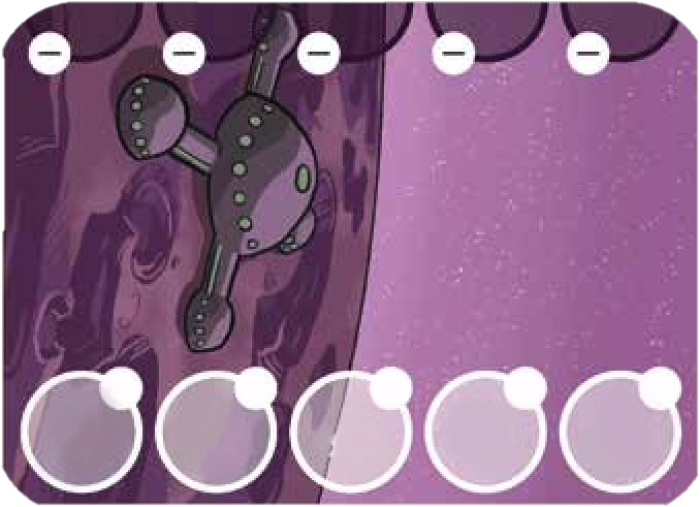
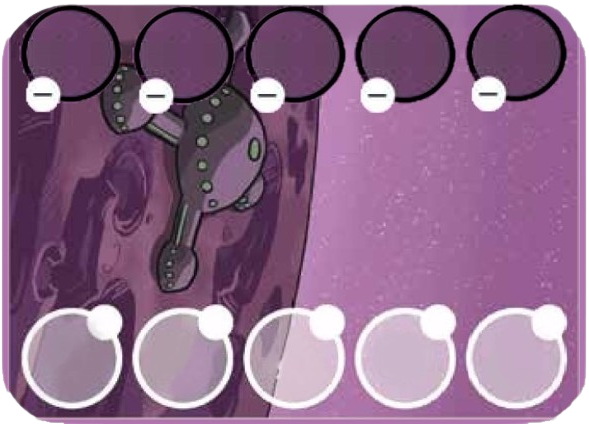
añadidos colores de shelters y clase game.css reorganizada

diff --git a/frontend/src/game/index.js b/frontend/src/game/index.js
@@ -106,7 +106,7 @@ export default function Game() {
     const shelterScoringSlotsY = [97, 97, 97, 97, 97] //coordenadas Y de los slots del shelter
 
     const shelterEmbarkingSlotsX = [8, 42, 76.5, 111, 145] //coordenadas X de los slots del shelter
-    const shelterEmbarkingSlotsY = [-14.5, -14.5, -14.5, -14.5, -14.5] //coordenadas Y de los slots del shelter
+    const shelterEmbarkingSlotsY = [1, 1, 1, 1, 1, 1] //coordenadas Y de los slots del shelter
 
 
 
@@ -275,10 +275,10 @@ export default function Game() {
             return null
         }
         return (
-            <div>
+            <div style={{height:150}}>
                 <div style={{ display: 'flex', flexDirection: 'row', marginBottom: 3 }}>
                     {crewmates.filter(crewmate => crewmate.player.id === gamePlayers.find(gamePlayer => gamePlayer.player.id === myPlayer.id).id
-                        && crewmate.role === "ENGINEER" && !crewmate.pod && !crewmate.shelterCard && !Object.values(actionSlots).includes(crewmate) && (actionSlots.embark ? !actionSlots.embark.includes(crewmate) : true))
+                        && crewmate.role === "ENGINEER" && !crewmate.pod && !crewmate.shelterCard && !Object.values(actionSlots).includes(crewmate) && (actionSlots.embark ? !actionSlots.embark.includes(crewmate) : true) && !Object.values(specialActionSlots).includes(crewmate))
                         .map((crewmate, index) => (
                             <div key={index} style={{ marginRight: 3 }}>
                                 <Crewmate crewmate={crewmate} />
@@ -287,7 +287,8 @@ export default function Game() {
                     }
                 </div>
                 <div style={{ display: 'flex', flexDirection: 'row', marginBottom: 3 }}>
-                    {crewmates.filter(crewmate => crewmate.player.id === gamePlayers.find(gamePlayer => gamePlayer.player.id === myPlayer.id).id && crewmate.role === "SCIENTIST" && !crewmate.pod && !crewmate.shelterCard)
+                    {crewmates.filter(crewmate => crewmate.player.id === gamePlayers.find(gamePlayer => gamePlayer.player.id === myPlayer.id).id
+                        && crewmate.role === "SCIENTIST" && !crewmate.pod && !crewmate.shelterCard && !Object.values(actionSlots).includes(crewmate) && (actionSlots.embark ? !actionSlots.embark.includes(crewmate) : true) && !Object.values(specialActionSlots).includes(crewmate))
                         .map((crewmate, index) => (
                             <div key={index} style={{ marginRight: 3 }}>
                                 <Crewmate crewmate={crewmate} />
@@ -296,7 +297,8 @@ export default function Game() {
                     }
                 </div>
                 <div style={{ display: 'flex', flexDirection: 'row', marginBottom: 3 }}>
-                    {crewmates.filter(crewmate => crewmate.player.id === gamePlayers.find(gamePlayer => gamePlayer.player.id === myPlayer.id).id && crewmate.role === "CAPTAIN" && !crewmate.pod && !crewmate.shelterCard)
+                    {crewmates.filter(crewmate => crewmate.player.id === gamePlayers.find(gamePlayer => gamePlayer.player.id === myPlayer.id).id
+                        && crewmate.role === "CAPTAIN" && !crewmate.pod && !crewmate.shelterCard && !Object.values(actionSlots).includes(crewmate) && (actionSlots.embark ? !actionSlots.embark.includes(crewmate) : true) && !Object.values(specialActionSlots).includes(crewmate))
                         .map((crewmate, index) => (
                             <div key={index} style={{ marginRight: 3 }}>
                                 <Crewmate crewmate={crewmate} />
@@ -313,7 +315,7 @@ export default function Game() {
             return null
         }
         return (
-            <div className={"shelter-horizontal"} onClick={() => {
+            <div className={"shelter-" + props.shelterCard.type.toLowerCase()} onClick={() => {
                 if (selectingShelterCard) {
                     shelterClickHandler(props.shelterCard)
                 }
@@ -324,18 +326,18 @@ export default function Game() {
                     </div>
                 ))}
                 {slotInfos.filter(slotInfo => slotInfo.shelter.id === props.shelterCard.id).map((slotInfo, index) => (
-                    <div key={index} style={{ position: "absolute", left: shelterEmbarkingSlotsX[index], top: shelterEmbarkingSlotsY[index] + 107 }}>
-                        <p style={{ color: "black", fontSize: 9, position: "absolute", left: 22 }}>
+                    <div key={index} style={{ position: "absolute", left: shelterEmbarkingSlotsX[index], top: shelterEmbarkingSlotsY[index] + 91.5 }}>
+                        <p style={{ color: "black", fontSize: 9, position: "absolute", left: 23, top: -1 }}>
                             {slotInfo.slotScore}
                         </p>
                         {slotInfo.role === "ENGINEER" &&
-                            <HiMiniWrenchScrewdriver color="white" style={{ position: "absolute", top: 11, left: 5 }} />
+                            <HiMiniWrenchScrewdriver color="white" style={{ position: "absolute", top: 10, left: 7 }} />
                         }
                         {slotInfo.role === "SCIENTIST" &&
-                            <IoIosFlask color="white" style={{ position: "absolute", top: 11, left: 5 }} />
+                            <IoIosFlask color="white" style={{ position: "absolute", top: 10, left: 7 }} />
                         }
                         {slotInfo.role === "CAPTAIN" &&
-                            <ImShield color="white" style={{ position: "absolute", top: 11, left: 5 }} />
+                            <ImShield color="white" style={{ position: "absolute", top: 10, left: 7 }} />
                         }
                     </div>
                 ))}

diff --git a/frontend/src/static/css/game/game.css b/frontend/src/static/css/game/game.css
@@ -26,146 +26,101 @@
     margin-top: 66px;
 }
 
-.pod3 {
+.pod3, .pod2, .pod1 {
     position: absolute;
-    background-image: url('../../images/pod3.png');
     background-size: cover;
     display: flex;
     max-width: 100px;
     max-height: 100px;
     height: 100%;
     width: 100%;
+}
+
+.pod3 {
+    background-image: url('../../images/pod3.png');
 }
 
 .pod2 {
-    position: absolute;
     background-image: url('../../images/pod2.png');
-    background-size: cover;
-    display: flex;
-    max-width: 100px;
-    max-height: 100px;
-    height: 100%;
-    width: 100%;
 }
 
 .pod1 {
-    position: absolute;
     background-image: url('../../images/pod1.png');
-    background-size: cover;
-    display: flex;
-    max-width: 100px;
-    max-height: 100px;
-    height: 100%;
-    width: 100%;
 }
 
-.shelter-horizontal {
+.shelter-pink, .shelter-blue, .shelter-yellow, .shelter-green, .shelter-orange {
     position: absolute;
     background-size: cover;
     display: flex;
-    background-image: url('../../images/pink-shelter.png');
     max-width: 179px;
     max-height: 130px;
     height: 100%;
     width: 100%;
 }
 
-.pod1 {
+.shelter-pink {
+    background-image: url('../../images/pink-shelter.png');
+}
+.shelter-blue {
+    background-image: url('../../images/blue-shelter.png');
+}
+.shelter-yellow {
+    background-image: url('../../images/yellow-shelter.png');
+}
+.shelter-green {
+    background-image: url('../../images/green-shelter.png');
+}
+.shelter-orange {
+    background-image: url('../../images/orange-shelter.png');
+}
+
+.black-action-card, .black-special-action-card, .blue-action-card, .blue-special-action-card, .yellow-action-card, 
+.yellow-special-action-card, .pink-action-card, .pink-special-action-card, .white-action-card, .white-special-action-card {
     position: absolute;
-    background-image: url('../../images/pod1.png');
     background-size: cover;
     display: flex;
-    max-width: 100px;
-    max-height: 100px;
+    max-width: 230px;
+    max-height: 165px;
     height: 100%;
     width: 100%;
 }
 
 .black-action-card {
-    position: absolute;
-    background-size: cover;
-    display: flex;
     background-image: url('../../images/blackActionCard.png');
-    max-width: 230px;
-    max-height: 165px;
-    height: 100%;
-    width: 100%;
 }
 
 .black-special-action-card {
-    position: absolute;
-    background-size: cover;
-    display: flex;
     background-image: url('../../images/blackSpecialActionCard.png');
-    max-width: 230px;
-    max-height: 165px;
-    height: 100%;
-    width: 100%;
 }
 
 .blue-action-card {
-    position: absolute;
-    background-size: cover;
-    display: flex;
     background-image: url('../../images/blueActionCard.png');
-    max-width: 230px;
-    max-height: 165px;
-    height: 100%;
-    width: 100%;
 }
 
 .blue-special-action-card {
-    position: absolute;
-    background-size: cover;
-    display: flex;
     background-image: url('../../images/blueSpecialActionCard.png');
-    max-width: 230px;
-    max-height: 165px;
-    height: 100%;
-    width: 100%;
 }
 
 .yellow-action-card {
-    position: absolute;
-    background-size: cover;
-    display: flex;
     background-image: url('../../images/yellowActionCard.png');
-    max-width: 230px;
-    max-height: 165px;
-    height: 100%;
-    width: 100%;
 }
 
 .yellow-special-action-card {
-    position: absolute;
-    background-size: cover;
-    display: flex;
     background-image: url('../../images/yellowSpecialActionCard.png');
-    max-width: 230px;
-    max-height: 165px;
-    height: 100%;
-    width: 100%;
 }
 
 .pink-action-card {
-    position: absolute;
-    background-size: cover;
-    display: flex;
     background-image: url('../../images/pinkActionCard.png');
-    max-width: 230px;
-    max-height: 165px;
-    height: 100%;
-    width: 100%;
 }
 
 .pink-special-action-card {
-    position: absolute;
-    background-size: cover;
-    display: flex;
     background-image: url('../../images/pinkSpecialActionCard.png');
-    max-width: 230px;
-    max-height: 165px;
-    height: 100%;
-    width: 100%;
 }
 
+.white-action-card {
+    background-image: url('../../images/whiteActionCard.png');
+}
+
+.white-special-action-card {
+    background-image: url('../../images/whiteSpecialActionCard.png');
+}
